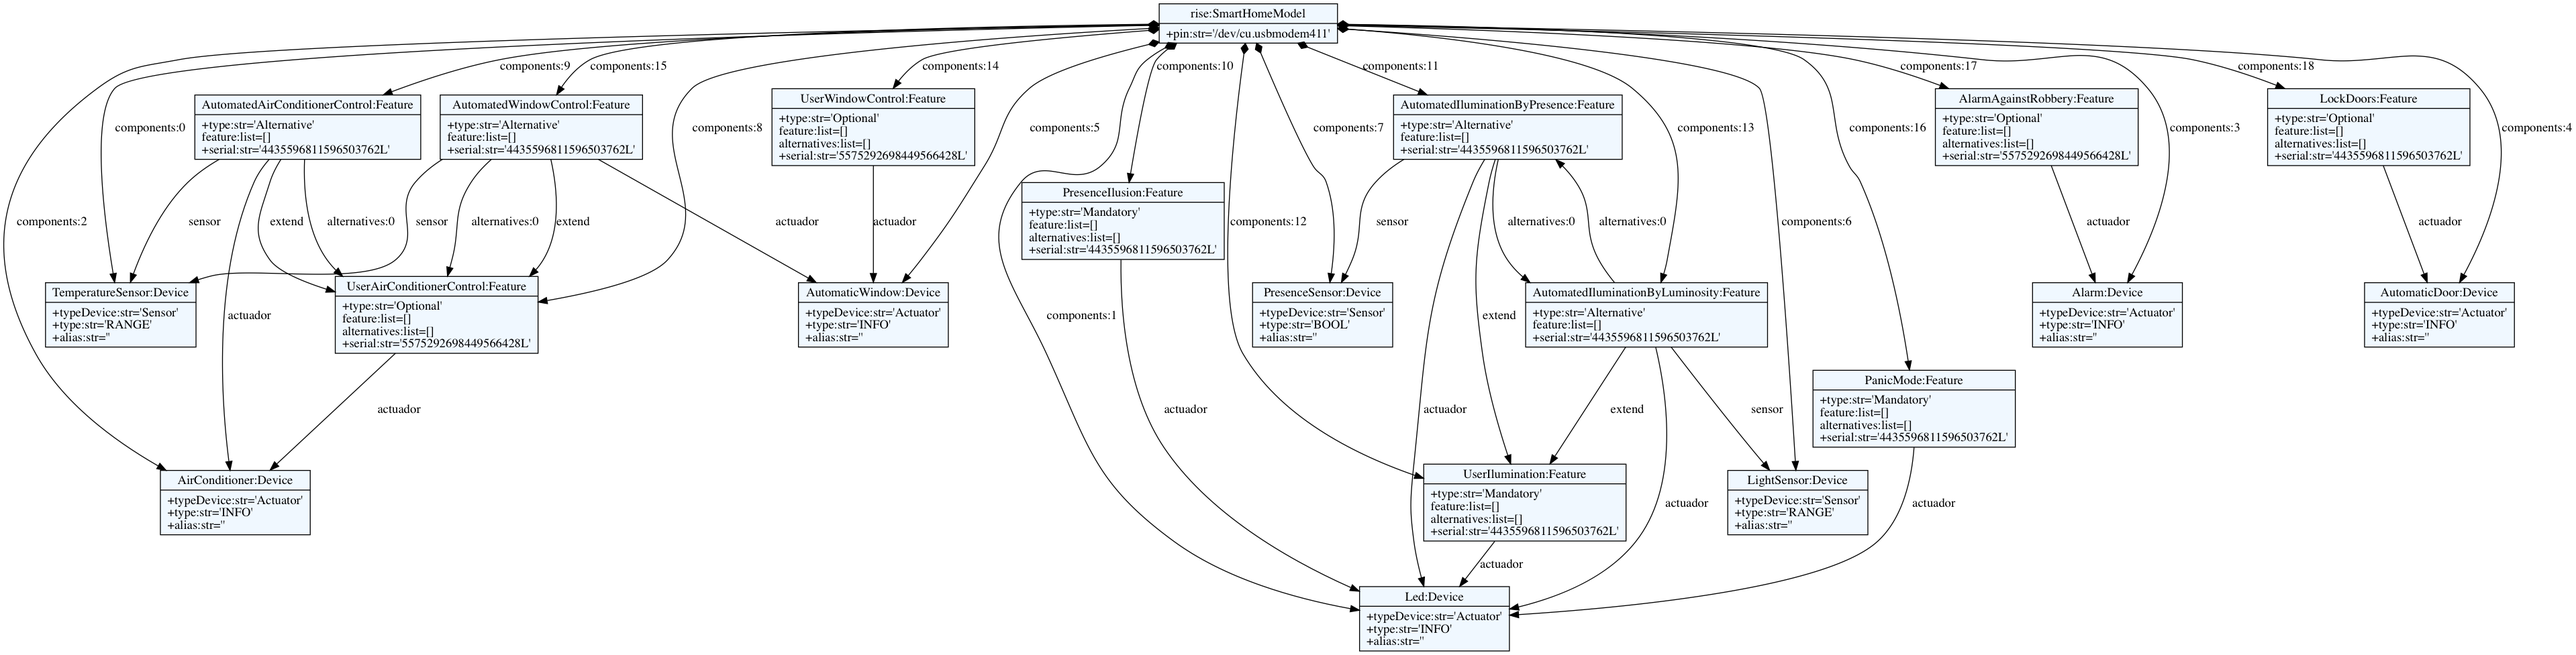
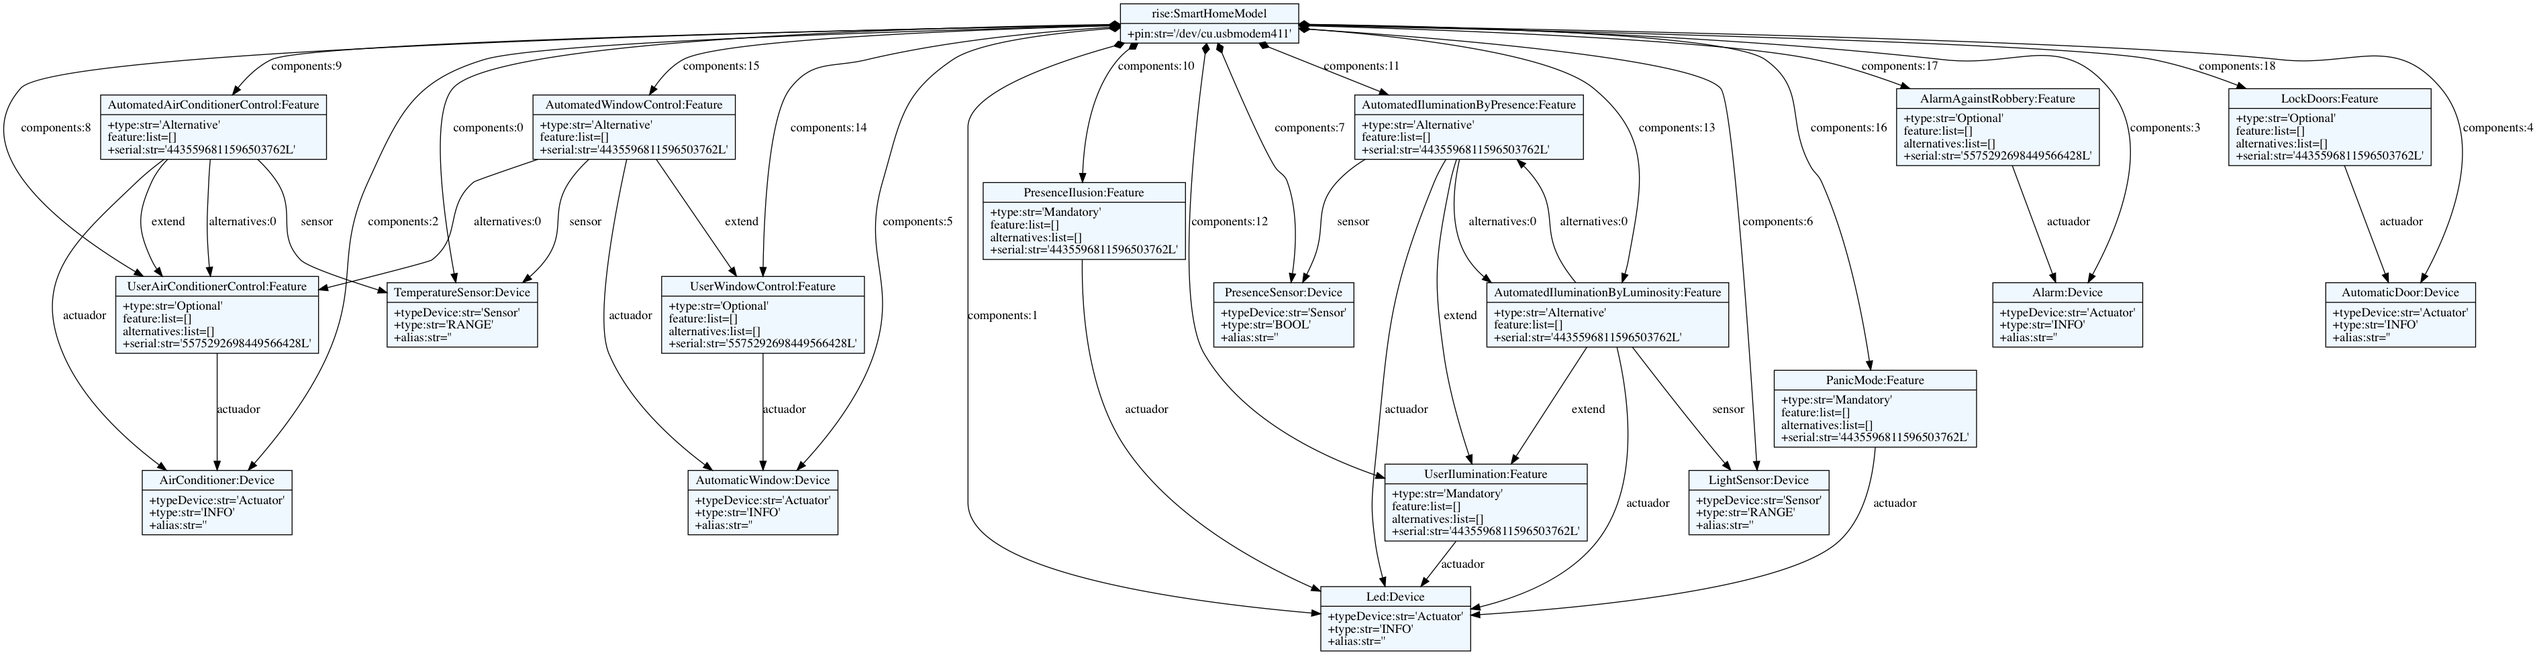
fix devices by type

diff --git a/srcgen/src/rise/smarthome/features/AutomatedWindowControl.java b/srcgen/src/rise/smarthome/features/AutomatedWindowControl.java
@@ -9,7 +9,7 @@ import rise.smarthome.model.devices.TemperatureSensor;
 
 @AlternativeFeature(alternatives={
 	UserAirConditionerControl.class})
-public class AutomatedWindowControl extends UserAirConditionerControl implements AdaptableFeature {
+public class AutomatedWindowControl extends UserWindowControl implements AdaptableFeature {
     private ArrayList<AutomaticWindow> automatedwindowcontrolToAutomate;
     private TemperatureSensor temperaturesensor;
     private static AutomatedWindowControl automatedwindowcontrol = null;
@@ -42,11 +42,11 @@ public class AutomatedWindowControl extends UserAirConditionerControl implements
 	}
 
 	
-    public ArrayList<AutomaticWindow> getAutomatedWindowControl() {
+    public ArrayList<AutomaticWindow> getAutomaticWindowToAutomate() {
 		return automatedwindowcontrolToAutomate;
 	}
 
-	public void setAutomatedWindowControl(ArrayList<AutomaticWindow> automatedwindowcontrolToAutomate) {
+	public void setAutomaticWindowToAutomate(ArrayList<AutomaticWindow> automatedwindowcontrolToAutomate) {
 		this.automatedwindowcontrolToAutomate = automatedwindowcontrolToAutomate;
 	}
 	

diff --git a/templates/automatedFeatureTemplate.java b/templates/automatedFeatureTemplate.java
@@ -59,11 +59,11 @@ public class {{data.feature.name}} {% if data.feature.extend %}extends {{data.fe
 	}
 
 	
-    public ArrayList<{{data.feature.actuador.name}}> get{{data.feature.name}}() {
+    public ArrayList<{{data.feature.actuador.name}}> get{{data.feature.actuador.name}}ToAutomate() {
 		return {{data.feature.name|lower}}ToAutomate;
 	}
 
-	public void set{{data.feature.name}}(ArrayList<{{data.feature.actuador.name}}> {{data.feature.name|lower}}ToAutomate) {
+	public void set{{data.feature.actuador.name}}ToAutomate(ArrayList<{{data.feature.actuador.name}}> {{data.feature.name|lower}}ToAutomate) {
 		this.{{data.feature.name|lower}}ToAutomate = {{data.feature.name|lower}}ToAutomate;
 	}
 	

diff --git a/srcgen/src/rise/smarthome/features/AutomatedAirConditionerControl.java b/srcgen/src/rise/smarthome/features/AutomatedAirConditionerControl.java
@@ -42,11 +42,11 @@ public class AutomatedAirConditionerControl extends UserAirConditionerControl im
 	}
 
 	
-    public ArrayList<AirConditioner> getAutomatedAirConditionerControl() {
+    public ArrayList<AirConditioner> getAirConditionerToAutomate() {
 		return automatedairconditionercontrolToAutomate;
 	}
 
-	public void setAutomatedAirConditionerControl(ArrayList<AirConditioner> automatedairconditionercontrolToAutomate) {
+	public void setAirConditionerToAutomate(ArrayList<AirConditioner> automatedairconditionercontrolToAutomate) {
 		this.automatedairconditionercontrolToAutomate = automatedairconditionercontrolToAutomate;
 	}
 	

diff --git a/srcgen/src/rise/smarthome/features/AutomatedIluminationByLuminosity.java b/srcgen/src/rise/smarthome/features/AutomatedIluminationByLuminosity.java
@@ -42,11 +42,11 @@ public class AutomatedIluminationByLuminosity extends UserIlumination implements
 	}
 
 	
-    public ArrayList<Led> getAutomatedIluminationByLuminosity() {
+    public ArrayList<Led> getLedToAutomate() {
 		return automatediluminationbyluminosityToAutomate;
 	}
 
-	public void setAutomatedIluminationByLuminosity(ArrayList<Led> automatediluminationbyluminosityToAutomate) {
+	public void setLedToAutomate(ArrayList<Led> automatediluminationbyluminosityToAutomate) {
 		this.automatediluminationbyluminosityToAutomate = automatediluminationbyluminosityToAutomate;
 	}
 	

diff --git a/srcgen/src/rise/smarthome/features/AutomatedIluminationByPresence.java b/srcgen/src/rise/smarthome/features/AutomatedIluminationByPresence.java
@@ -42,11 +42,11 @@ public class AutomatedIluminationByPresence extends UserIlumination implements A
 	}
 
 	
-    public ArrayList<Led> getAutomatedIluminationByPresence() {
+    public ArrayList<Led> getLedToAutomate() {
 		return automatediluminationbypresenceToAutomate;
 	}
 
-	public void setAutomatedIluminationByPresence(ArrayList<Led> automatediluminationbypresenceToAutomate) {
+	public void setLedToAutomate(ArrayList<Led> automatediluminationbypresenceToAutomate) {
 		this.automatediluminationbypresenceToAutomate = automatediluminationbypresenceToAutomate;
 	}
 	

diff --git a/srcgen/src/rise/smarthome/model/home/HouseFacade.java b/srcgen/src/rise/smarthome/model/home/HouseFacade.java
@@ -393,6 +393,13 @@ public class HouseFacade {
 		}
 		
 		
+
+		if(feature instanceof UserWindowControl){
+			UserWindowControl userwindowcontrol = UserWindowControl.getInstance(((UserIlumination)feature).getLeds());
+			exchangeRequiredFeature(feature, userwindowcontrol);
+			features.remove(feature);
+			addFeature(userwindowcontrol);
+		}
 		
 
 		if(feature instanceof UserIlumination){

diff --git a/templates/deviceTemplate.java b/templates/deviceTemplate.java
@@ -1,6 +1,10 @@
 // Autogenerated by SHomeDSL
 package {{systemName|lower}}.smarthome.model.devices;
 
+{% if data.device.type == "RANGE" %}
+import {{systemName|lower}}.smarthome.util.ListUtils;
+{% endif %}
+
 public class {{data.device.name}} extends {{data.device.typeDevice}} {
 
 	public {{data.device.name}}(int pin, boolean isAnalog) {

diff --git a/srcgen/src/rise/smarthome/model/devices/TemperatureSensor.java b/srcgen/src/rise/smarthome/model/devices/TemperatureSensor.java
@@ -1,6 +1,8 @@
 // Autogenerated by SHomeDSL
 package rise.smarthome.model.devices;
 
+import rise.smarthome.util.ListUtils;
+
 public class TemperatureSensor extends Sensor {
 
 	public TemperatureSensor(int pin, boolean isAnalog) {

diff --git a/srcgen/src/rise/smarthome/model/devices/LightSensor.java b/srcgen/src/rise/smarthome/model/devices/LightSensor.java
@@ -1,6 +1,8 @@
 // Autogenerated by SHomeDSL
 package rise.smarthome.model.devices;
 
+import rise.smarthome.util.ListUtils;
+
 public class LightSensor extends Sensor {
 
 	public LightSensor(int pin, boolean isAnalog) {

diff --git a/srcgen/src/rise/smarthome/model/devices/AutomaticWindow.java b/srcgen/src/rise/smarthome/model/devices/AutomaticWindow.java
@@ -1,6 +1,7 @@
 // Autogenerated by SHomeDSL
 package rise.smarthome.model.devices;
 
+
 public class AutomaticWindow extends Actuator {
 
 	public AutomaticWindow(int pin, boolean isAnalog) {

diff --git a/srcgen/src/rise/smarthome/model/devices/AirConditioner.java b/srcgen/src/rise/smarthome/model/devices/AirConditioner.java
@@ -1,6 +1,7 @@
 // Autogenerated by SHomeDSL
 package rise.smarthome.model.devices;
 
+
 public class AirConditioner extends Actuator {
 
 	public AirConditioner(int pin, boolean isAnalog) {

diff --git a/srcgen/src/rise/smarthome/model/devices/AutomaticDoor.java b/srcgen/src/rise/smarthome/model/devices/AutomaticDoor.java
@@ -1,6 +1,7 @@
 // Autogenerated by SHomeDSL
 package rise.smarthome.model.devices;
 
+
 public class AutomaticDoor extends Actuator {
 
 	public AutomaticDoor(int pin, boolean isAnalog) {
